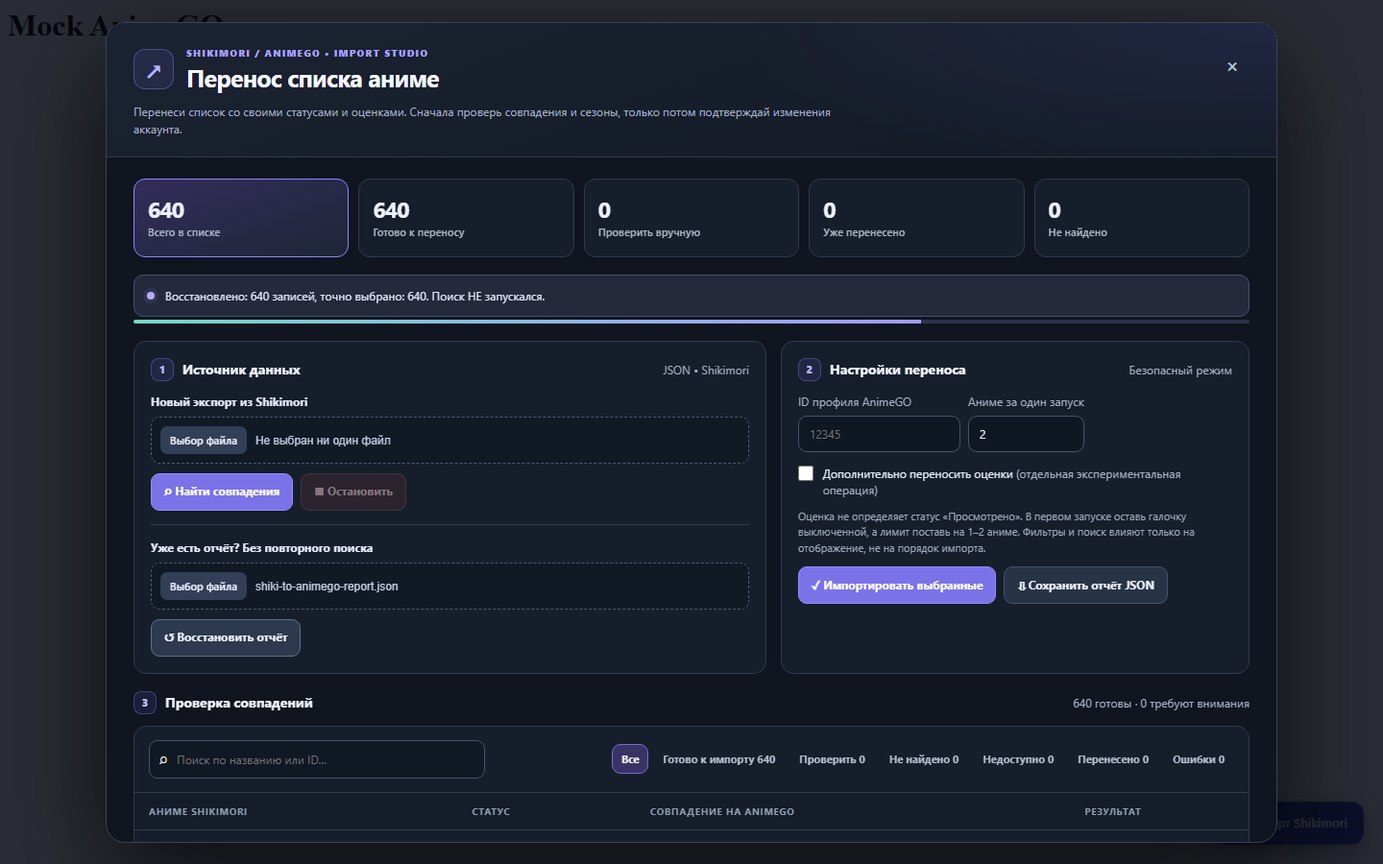
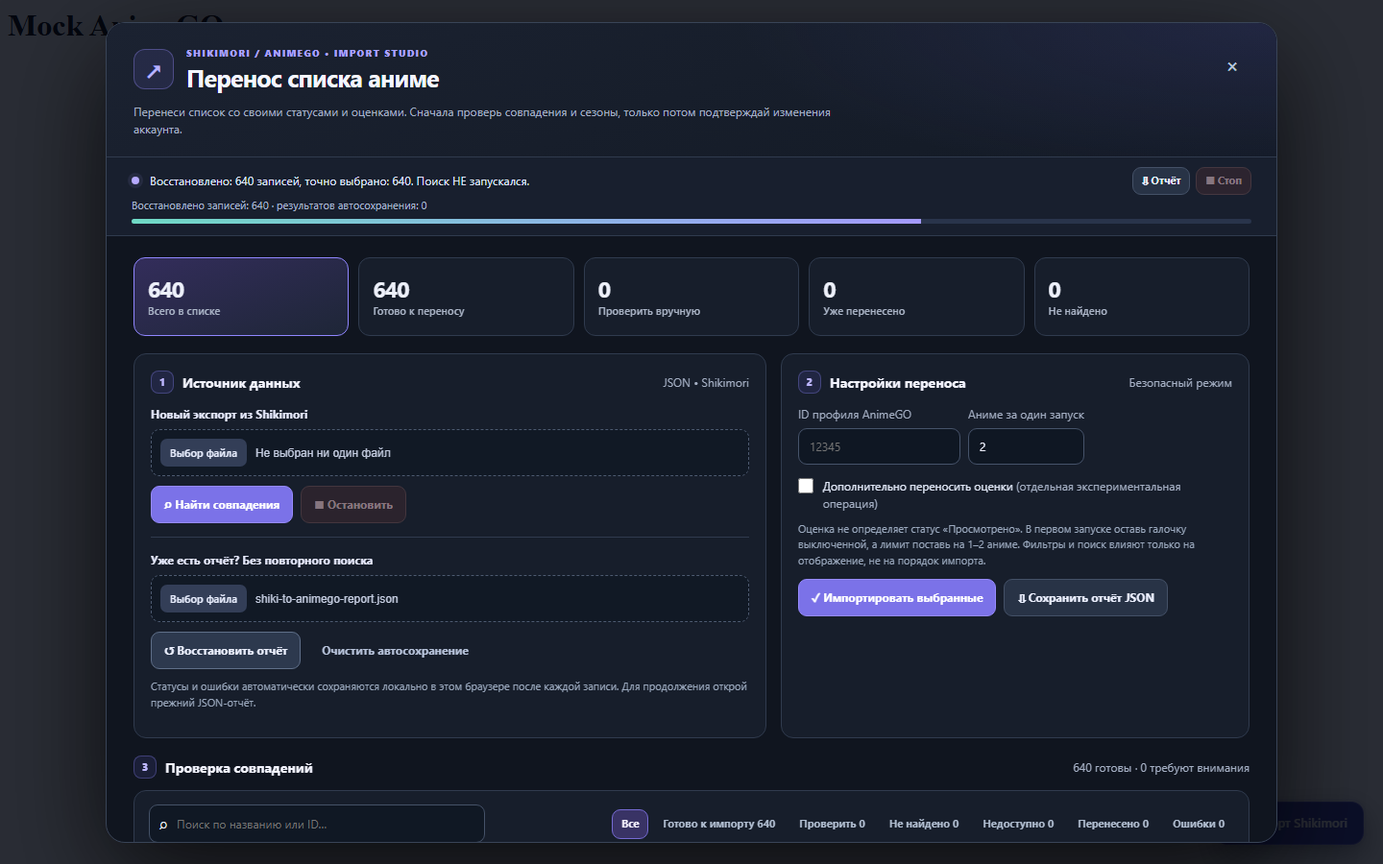
Добавить видимый прогресс и автосохранение / Pin progress and checkpoint writes

diff --git a/shikimori-to-animego.user.js b/shikimori-to-animego.user.js
@@ -2,7 +2,7 @@
 // @name         Shikimori to AnimeGO Importer
 // @name:ru      Перенос Shikimori в AnimeGO
 // @namespace    shiki-to-animego
-// @version      0.6.0
+// @version      0.6.1
 // @updateURL    https://raw.githubusercontent.com/SvisBee/shikimori-to-animego/main/shikimori-to-animego.user.js
 // @downloadURL  https://raw.githubusercontent.com/SvisBee/shikimori-to-animego/main/shikimori-to-animego.user.js
 // @description  Import Shikimori anime into anime-go.org with preview and safety checks
@@ -251,6 +251,19 @@
 #shiki-ag-modal .ag-preview-bottom button{align-self:stretch}
 #shiki-ag-modal .ag-empty{padding:18px!important}
 }
+
+#shiki-ag-modal .ag-livebar{flex:0 0 auto;background:#181f2e;padding:10px 26px 12px;border-bottom:1px solid var(--ag-border);z-index:2}
+#shiki-ag-modal .ag-live-top{display:flex;align-items:center;gap:12px}
+#shiki-ag-modal .ag-livebar .ag-status{margin:0;padding:5px 0;min-height:0;flex:1;border:0;background:transparent;overflow-wrap:anywhere}
+#shiki-ag-modal .ag-live-actions{display:flex;gap:6px;flex:0 0 auto}
+#shiki-ag-modal .ag-live-actions button{min-height:29px;padding:5px 9px;font-size:11px}
+#shiki-ag-modal .ag-live-meta{font-size:11px;color:#aab8d0;line-height:1.4;margin:3px 0 7px;max-width:100%;white-space:nowrap;overflow:hidden;text-overflow:ellipsis}
+#shiki-ag-modal .ag-livebar .ag-progress{height:5px;margin:0;border-radius:10px}
+#shiki-ag-modal .ag-live-error{margin-top:8px;padding:8px 11px;border-radius:8px;background:#422631;border:1px solid #a65c66;color:#ffe0e5;font-size:11px;line-height:1.5;max-height:90px;overflow:auto}
+#shiki-ag-modal .ag-live-error[hidden]{display:none}
+@media(max-width:800px){#shiki-ag-modal .ag-livebar{padding:9px 15px}}
+@media(max-width:480px){#shiki-ag-modal .ag-live-top{align-items:flex-start;flex-direction:column;gap:3px}
+#shiki-ag-modal .ag-live-actions{align-self:flex-end}#shiki-ag-modal .ag-live-meta{white-space:normal;max-height:36px;overflow:hidden}}
 @media(prefers-reduced-motion:reduce){#shiki-ag-open,#shiki-ag-modal button,#shiki-ag-modal #ag-progressbar{transition:none!important}}
 `;
   document.head.append(style);
@@ -276,14 +289,24 @@
     </div>
     <p class="ag-intro">Перенеси список со своими статусами и оценками. Сначала проверь совпадения и сезоны, только потом подтверждай изменения аккаунта.</p>
   </header>
-  <div class="ag-scroll">
-    <div class="ag-figure" id="ag-stats" aria-label="Статистика импорта"></div>
-    <div class="ag-status" id="ag-status-wrap" data-kind="info">
-      <span id="ag-status" role="status" aria-live="polite">Загрузи экспорт Shikimori или сохранённый отчёт, чтобы начать.</span>
+  <div class="ag-livebar" aria-label="Ход работы импортёра">
+    <div class="ag-live-top">
+      <div class="ag-status" id="ag-status-wrap" data-kind="info">
+        <span id="ag-status" role="status" aria-live="polite">Загрузи экспорт Shikimori или сохранённый отчёт.</span>
+      </div>
+      <div class="ag-live-actions">
+        <button type="button" id="ag-dock-report" disabled>⇩ Отчёт</button>
+        <button type="button" id="ag-dock-stop" class="ag-danger-quiet" disabled>■ Стоп</button>
+      </div>
     </div>
-    <div class="ag-progress" role="progressbar" aria-label="Прогресс поиска" aria-valuemin="0" aria-valuemax="100" aria-valuenow="0" id="ag-progress">
+    <div class="ag-live-meta" id="ag-live-meta" aria-live="off">Нет активных операций</div>
+    <div class="ag-progress" role="progressbar" aria-label="Прогресс операции" aria-valuemin="0" aria-valuemax="100" aria-valuenow="0" id="ag-progress">
       <div id="ag-progressbar"></div>
     </div>
+    <div id="ag-last-error" class="ag-live-error" role="alert" hidden></div>
+  </div>
+  <div class="ag-scroll">
+    <div class="ag-figure" id="ag-stats" aria-label="Статистика импорта"></div>
     <div class="ag-grid">
       <section class="ag-card" aria-labelledby="ag-source-head">
         <div class="ag-section-top"><div class="ag-heading"><span class="ag-step">1</span><h3 id="ag-source-head">Источник данных</h3></div><span class="ag-muted">JSON • Shikimori</span></div>
@@ -300,7 +323,9 @@
           <span class="ag-file-title">Уже есть отчёт? Без повторного поиска</span>
           <input type="file" id="ag-report-file" accept=".json,application/json">
         </label>
-        <div class="ag-actions"><button type="button" id="ag-restore">↺ Восстановить отчёт</button></div>
+        <div class="ag-actions"><button type="button" id="ag-restore">↺ Восстановить отчёт</button>
+          <button type="button" id="ag-clear-progress" class="ag-quiet">Очистить автосохранение</button></div>
+        <p class="ag-hint">Статусы и ошибки автоматически сохраняются локально в этом браузере после каждой записи. Для продолжения открой прежний JSON-отчёт.</p>
       </section>
       <section class="ag-card" aria-labelledby="ag-settings-head">
         <div class="ag-section-top"><div class="ag-heading"><span class="ag-step">2</span><h3 id="ag-settings-head">Настройки переноса</h3></div><span class="ag-muted">Безопасный режим</span></div>
@@ -355,7 +380,7 @@
     </section>
     <footer class="ag-footer">
       <span>Не закрывай вкладку во время импорта. Неподтверждённые совпадения не переносятся.</span>
-      <span>v0.6.0 beta · RU / EN</span>
+      <span>v0.6.1 beta · RU / EN</span>
     </footer>
   </div>
 </div>
@@ -368,6 +393,53 @@
   if (profileMatch) modal.querySelector("#ag-profile-id").value = profileMatch[1];
   const el = id => modal.querySelector("#"+id);
   let items = [], skipped = [], busy = false, stopped = false, searched = false;
+  // RU: Локальный checkpoint хранит только результаты; исходный экспорт не записываем.
+  // EN: Local checkpoint stores only per-title results, not the full export.
+  const CHECKPOINT_PREFIX = "shiki-animego:checkpoint:v1:";
+  const profileId = () => el("ag-profile-id").value.trim();
+  const rowKey = row => [row.sourceIndex, row.title, row.status, row.chosen].join("|");
+  const checkpointKey = () => CHECKPOINT_PREFIX + profileId();
+  function getCheckpoint() {
+    if (!/^\d{1,12}$/.test(profileId())) return null;
+    try {
+      const raw = window.localStorage.getItem(checkpointKey());
+      const obj = raw && JSON.parse(raw);
+      return obj?.version === 1 && obj?.profile === profileId() &&
+        typeof obj?.entries === "object" ? obj : {version:1,profile:profileId(),entries:{}};
+    } catch (_) { return null; }
+  }
+  function ensureCheckpoint() {
+    if (!/^\d{1,12}$/.test(profileId()))
+      throw new Error("Укажите ID своего профиля, чтобы обеспечить автосохранение.");
+    try {
+      const key=checkpointKey();
+      const prior=window.localStorage.getItem(key);
+      window.localStorage.setItem(key,prior || JSON.stringify({version:1,profile:profileId(),entries:{}}));
+    } catch (_) {
+      throw new Error("Браузер запретил локальное сохранение. Импорт не запущен, чтобы не потерять прогресс.");
+    }
+  }
+  function saveCheckpoint(row) {
+    const saved=getCheckpoint();
+    if (!saved) throw new Error("Не удалось прочитать локальное автосохранение.");
+    saved.entries[rowKey(row)]={result:row.result,note:String(row.note||"").slice(0,350)};
+    saved.updatedAt=new Date().toISOString();
+    try {window.localStorage.setItem(checkpointKey(),JSON.stringify(saved));}
+    catch (_) {throw new Error("Автосохранение не удалось. Остановите импорт и скачайте отчёт.");}
+  }
+  function restoreCheckpoint() {
+    const saved=getCheckpoint();
+    if (!saved) return 0;
+    let restored=0;
+    items.forEach(row=>{
+      const state=saved.entries[rowKey(row)];
+      if (!state || row.result === "imported" || !["imported","error","verify_failed"].includes(state.result)) return;
+      row.result=state.result;
+      row.note=state.note || "";
+      restored++;
+    });
+    return restored;
+  }
 
   let activeFilter = "all", visibleCount = 50;
   const FILTERS = [
@@ -389,6 +461,16 @@
         : kind === "success" ? "success" : "info";
   }
   const info = setInfo;
+  function live(text,failed="") {
+    el("ag-live-meta").textContent=text;
+    const target=el("ag-last-error");
+    target.hidden=!failed;
+    if (failed) target.textContent=failed;
+  }
+  function clearError() {
+    el("ag-last-error").hidden=true;
+    el("ag-last-error").textContent="";
+  }
   function setProgress(done, total) {
     const p = total ? Math.min(100, Math.round(done * 100 / total)) : 0;
     el("ag-progressbar").style.width = p + "%";
@@ -546,6 +628,8 @@
     el("ag-restore").disabled = busy;
     el("ag-report").disabled = !items.length;
     el("ag-stop").disabled = !busy;
+    el("ag-dock-stop").disabled = !busy;
+    el("ag-dock-report").disabled = !items.length;
   }
   function csrf() {
     return document.querySelector("[data-csrf-token]")?.getAttribute("data-csrf-token") ||
@@ -573,7 +657,9 @@
       setProgress(items.length,items.length);
       stopped = false;
       searched = true;
+      const resumed=restoreCheckpoint();
       render();
+      live("Восстановлено записей: " + items.length + " · результатов автосохранения: " + resumed);
       info("Восстановлено: " + items.length + " записей, точно выбрано: " +
         items.filter(x=>x.chosen).length + ". Поиск НЕ запускался.");
     } catch (error) {
@@ -607,7 +693,10 @@
         info("Поиск "+(i+1)+"/"+items.length+"; выбрано точно "+items.filter(x=>x.chosen).length);
         await wait(450);
       }
-      searched=true;render();
+      searched=true;
+      const resumed=restoreCheckpoint();
+      render();
+      live("Поиск завершён · результатов автосохранения: " + resumed);
       if (stopped) info("Поиск остановлен. Уже найденные совпадения доступны.");
     } catch(e){info("Ошибка: "+e.message);}
     finally {busy=false;render();}
@@ -703,6 +792,7 @@
       seenIds.add(row.chosen);
     }
     if(!selected.length)return info("Нет выбранных аниме для переноса.");
+    try { ensureCheckpoint(); } catch(e) { return info("Ошибка: " + e.message,"error"); }
     // RU: Фильтры только для просмотра. Показываем реальные цели перед записью.
     // EN: Filters affect display only; explicitly confirm actual write targets.
     const preview = selected.slice(0,5).map(x => " - " + (x.title || x.russian)).join("\n");
@@ -711,9 +801,16 @@
       "\n\nФильтры и поиск не меняют очередь. Проверьте сезоны и выбранные названия."))
       return;
     busy=true;stopped=false;let success=0,failed=0;
-    setProgress(0,selected.length); render();
-    for(const r of selected) {
+    clearError();
+    setProgress(0,selected.length);
+    info("Запущен импорт " + selected.length + " аниме · 0 успешно · 0 ошибок");
+    live("Подготовка... · сохранение после каждого тайтла");
+    render();
+    for(const [index,r] of selected.entries()) {
       if(stopped)break;
+      const title=r.title || r.russian;
+      live("Обработка " + (index+1) + "/" + selected.length + " · " + title +
+        " · успешно " + success + " · ошибок " + failed);
       try {
         if (r.status === "completed") {
           // RU: Переносим сам статус отдельно от оценки, потом сверяем раздел профиля.
@@ -751,13 +848,24 @@
         if (e.needsVerification || /HTTP 401|HTTP 403|HTTP 429|Не JSON/.test(e.message))
           stopped=true;
       }
+      if (r.result === "error" || r.result === "verify_failed")
+        live("Остановлено на «" + title + "» · успешно " + success + " · ошибок " + failed,
+          title + ": " + r.note);
+      try {saveCheckpoint(r);}
+      catch(e) {stopped=true;live("Автосохранение не удалось",e.message);}
       render();setProgress(success+failed,selected.length);
-      info("Перенесено "+success+"; ошибок "+failed);
+      info("Импорт " + (success+failed) + "/" + selected.length +
+        " · успешно " + success + " · ошибок " + failed,
+        failed ? "error" : "info");
       await wait(900);
     }
     busy=false;render();
-    info("Готово/остановлено: "+success+" успешно, "+failed+" ошибок. Сохраните отчёт.",
-      stopped || failed ? "error" : "success");
+    const remaining=selected.length-success-failed;
+    const message=(stopped ? "Остановлено" : "Готово") + ": " + success +
+      " успешно, " + failed + " ошибок" + (remaining ? ", не обработано " + remaining : "") +
+      ". Прогресс сохранён в браузере.";
+    info(message,stopped || failed ? "error" : "success");
+    if (!failed) live(message);
   }
   function report() {
     const contents=JSON.stringify({version:1,createdAt:new Date().toISOString(),items,skipped},null,2);
@@ -766,9 +874,22 @@
     link.click();setTimeout(()=>URL.revokeObjectURL(url),3000);
   }
   el("ag-close").onclick=closeModal;
-  el("ag-stop").onclick=()=>{stopped=true;info("Остановка после текущего запроса...");};
+  const requestStop=()=>{stopped=true;info("Остановка после текущего запроса...");};
+  el("ag-stop").onclick=requestStop;
+  el("ag-dock-stop").onclick=requestStop;
   el("ag-scan").onclick=scan;el("ag-restore").onclick=restoreReport;
   el("ag-import").onclick=apply;el("ag-report").onclick=report;
+  el("ag-dock-report").onclick=report;
+  el("ag-clear-progress").onclick=()=>{
+    if (busy) return info("Нельзя очищать автосохранение во время импорта.");
+    if (!/^\d{1,12}$/.test(profileId())) return info("Сначала укажи ID своего профиля.");
+    if (!confirm("Удалить локальный прогресс для этого профиля?\nИсходный JSON-отчёт не изменится.")) return;
+    try {
+      window.localStorage.removeItem(checkpointKey());
+      info("Локальный прогресс очищен. Для обновления таблицы снова открой JSON-отчёт.");
+      live("Автосохранение очищено");
+    } catch(e) {info("Ошибка очистки: "+e.message,"error");}
+  };
   el("ag-find").addEventListener("input",()=>{visibleCount=50;render();});
   el("ag-more").addEventListener("click",()=>{visibleCount+=50;render();});
   modal.addEventListener("keydown",(event)=>{

diff --git a/README.md b/README.md
@@ -4,9 +4,13 @@
 
 Неофициальный userscript для переноса списка аниме из Shikimori на **[anime-go.org](https://anime-go.org/)** (с дефисом). Сайт `animego.me` работает на другом движке и этой версией не поддерживается.
 
-> **v0.6.0 Beta.** На настоящем аккаунте протестированы «Брошено» и «Просмотрено», включая сохранение двух разных тайтлов с оценками. **Новый интерфейс** протестирован отдельно в браузере на вымышленных данных; перед большим переносом проверьте небольшую партию на сайте. Сохраните исходный экспорт Shikimori и JSON-отчёт.
+> **v0.6.1 Beta.** На настоящем аккаунте протестированы «Брошено» и «Просмотрено», включая сохранение двух разных тайтлов с оценками. **Новый интерфейс** протестирован отдельно в браузере на вымышленных данных; перед большим переносом проверьте небольшую партию на сайте. Сохраните исходный экспорт Shikimori и JSON-отчёт.
 
 ## Возможности
+- **Прогресс всегда виден сверху окна:** текущий тайтл, обработано из партии, успешно, ошибки, остановка и сохранение отчёта. Причины остановки показываются рядом, без поиска нужной строки в таблице.
+- **Автосохранение после каждой записи:** сохраняются только статусы, совпадения и сообщения об ошибках, не исходный экспорт. Восстанови старый JSON-отчёт в том же браузере и под тем же ID профиля, чтобы продолжить без повторного импорта уже обработанных тайтлов.
+- Можно очистить локальное автосохранение кнопкой в интерфейсе; исходный JSON-отчёт при этом не изменяется.
+
 
 - **Обновлённый интерфейс v0.6:** тёмная тема, сводные показатели, поиск и фильтры, таблица с подгрузкой по 50 строк, мобильные карточки, индикатор прогресса, доступные клавиатурные действия.
 - Перед реальной записью показывается список тайтлов, которые будут изменены. **Фильтры и поиск влияют только на отображение**, а не на очередь импорта.
@@ -32,7 +36,7 @@
 ## Установка
 
 1. Установи [Tampermonkey](https://www.tampermonkey.net/) и разреши пользовательские скрипты в браузере.
-2. Открой [shikimori-to-animego.user.js](./shikimori-to-animego.user.js) и установи версию **0.6.0**, заменив предыдущую.
+2. Открой [shikimori-to-animego.user.js](./shikimori-to-animego.user.js) и установи версию **0.6.1**, заменив предыдущую.
 3. Войди в аккаунт на [anime-go.org](https://anime-go.org/), открой **свой профиль** и обнови страницу.
 4. Нажми «Импорт Shikimori». Скрипт возьмёт ID профиля из адреса, проверь, что указан именно твой.
 5. Выбери JSON-экспорт Shikimori или загрузи уже сохранённый отчёт через «Восстановить результаты без поиска».
@@ -64,7 +68,7 @@ node test.js
 node tests/ui-smoke.cjs
 ```
 
-**Приватность:** экспорт обрабатывается в браузере; скрипт обращается к текущему сайту AnimeGO, а не к серверу автора. Не прикрепляйте личные JSON-экспорты, cookie, токены и отчёты к публичным issues.
+**Приватность:** локальный прогресс хранится в localStorage на домене anime-go.org и потенциально доступен самому сайту и его скриптам. Не запускайте импорт на чужих или общих компьютерах, если это нежелательно. Экспорт обрабатывается в браузере; скрипт обращается к текущему сайту AnimeGO, а не к серверу автора. Не прикрепляйте личные JSON-экспорты, cookie, токены и отчёты к публичным issues.
 
 Лицензия MIT. [Сообщить об ошибке / Report an issue](https://github.com/SvisBee/shikimori-to-animego/issues).
 
@@ -74,9 +78,13 @@ node tests/ui-smoke.cjs
 
 An unofficial userscript to migrate your Shikimori anime list to **[anime-go.org](https://anime-go.org/)** (with a hyphen). This is not compatible with the distinct `animego.me` website.
 
-> **v0.6.0 Beta.** Both Dropped and Completed statuses have been successfully observed on a real account, including two correctly rated Completed titles. The **new interface** was separately tested in a mocked browser; verify a small live batch before bulk importing. Keep your Shikimori export and saved report.
+> **v0.6.1 Beta.** Both Dropped and Completed statuses have been successfully observed on a real account, including two correctly rated Completed titles. The **new interface** was separately tested in a mocked browser; verify a small live batch before bulk importing. Keep your Shikimori export and saved report.
 
 ### Features
+- **Always-visible progress panel:** current title, batch progress, successful items/errors, Stop and Report actions, and an immediately visible failure reason.
+- **Checkpoint after every processed item:** restore earlier results by loading the original JSON report in the same browser/profile. The complete export is never stored locally; only outcome metadata is saved.
+- Checkpoint can be cleared from the interface without affecting the original JSON report.
+
 
 - **Redesigned UI in v0.6:** dark theme, summary counters, filters/search, 50-row incremental rendering, responsive mobile cards, progress indicator, keyboard-friendly controls.
 - The confirmation dialog shows the exact titles to be modified. **Search and filters affect display only**, not the import order.
@@ -98,7 +106,7 @@ See the [desktop](docs/screenshots/desktop.png) and [mobile](docs/screenshots/mo
 ### Installation and usage
 
 1. Install [Tampermonkey](https://www.tampermonkey.net/) and enable userscripts in your browser.
-2. Install [shikimori-to-animego.user.js](./shikimori-to-animego.user.js) **v0.6.0**.
+2. Install [shikimori-to-animego.user.js](./shikimori-to-animego.user.js) **v0.6.1**.
 3. Sign in to [anime-go.org](https://anime-go.org/), preferably open your own profile, and refresh.
 4. Click **Import Shikimori**, check that the profile ID belongs to you.
 5. Load a Shikimori JSON export or restore a previously saved report without searching.
@@ -120,6 +128,6 @@ node test.js
 node tests/ui-smoke.cjs
 ```
 
-**Privacy:** the export stays in your browser; requests go to the currently opened anime-go.org website. Do not post personal exports, reports, cookies, tokens or private information to public GitHub issues.
+**Privacy:** checkpoint metadata is stored in localStorage on anime-go.org and can be accessible to that site and its scripts. Avoid shared computers if this is a concern. The full export stays in your browser; requests go to the currently opened anime-go.org website. Do not post personal exports, reports, cookies, tokens or private information to public GitHub issues.
 
 MIT licensed. Not affiliated with Shikimori or AnimeGO. [Issues](https://github.com/SvisBee/shikimori-to-animego/issues).

diff --git a/CHANGELOG.md b/CHANGELOG.md
@@ -1,5 +1,11 @@
 # История изменений / Changelog
 
+## 0.6.1 Beta - Видимый прогресс и автовосстановление / Live progress and checkpoints
+
+**RU:** Панель прогресса вынесена над прокручиваемой областью: видны текущий тайтл, обработанные записи, количество ошибок, кнопки сохранения и остановки, а также причина сбоя. После каждого завершённого тайтла сохраняется локальный checkpoint (ID профиля, ключ записи, результат, короткое сообщение об ошибке). При восстановлении исходного отчёта успешно перенесённые записи пропускаются. Ошибки проверки по-прежнему останавливают процесс. Добавлены браузерные тесты: прерывание после успешной записи, HTTP 403, сохранение и восстановление результатов, отсутствие последующих записей после остановки. Исходный JSON-экспорт в localStorage не сохраняется.
+
+**EN:** Progress and failure details are now pinned above the scroll area, including current title, completed count, errors, Stop and Report actions. A local per-title checkpoint is saved after each processed title and merged when restoring the original JSON report. Verification failures still halt processing. Added browser regression tests for partial success, HTTP 403, checkpoint restoration, and stopping subsequent writes. The full export is never stored in localStorage.
+
 ## 0.6.0 Beta - Новый интерфейс / UI redesign
 
 **RU:** Полностью переработано окно импорта: тёмная тема, карточки статистики, поиск, фильтры «готово/проверить/не найдено/перенесено/ошибки», отображение по 50 записей, мобильные карточки и полоска прогресса. Добавлено понятное предупреждение, что фильтр не меняет очередь импорта, а перед подтверждением показываются реальные названия выбранных тайтлов. После завершения поиска кнопки корректно разблокируются. Браузерные Playwright-тесты изолированы от настоящего сайта и используют 640 синтетических записей. Применены подходы из скиллов дизайн-инженерии, QA и UI/UX.
